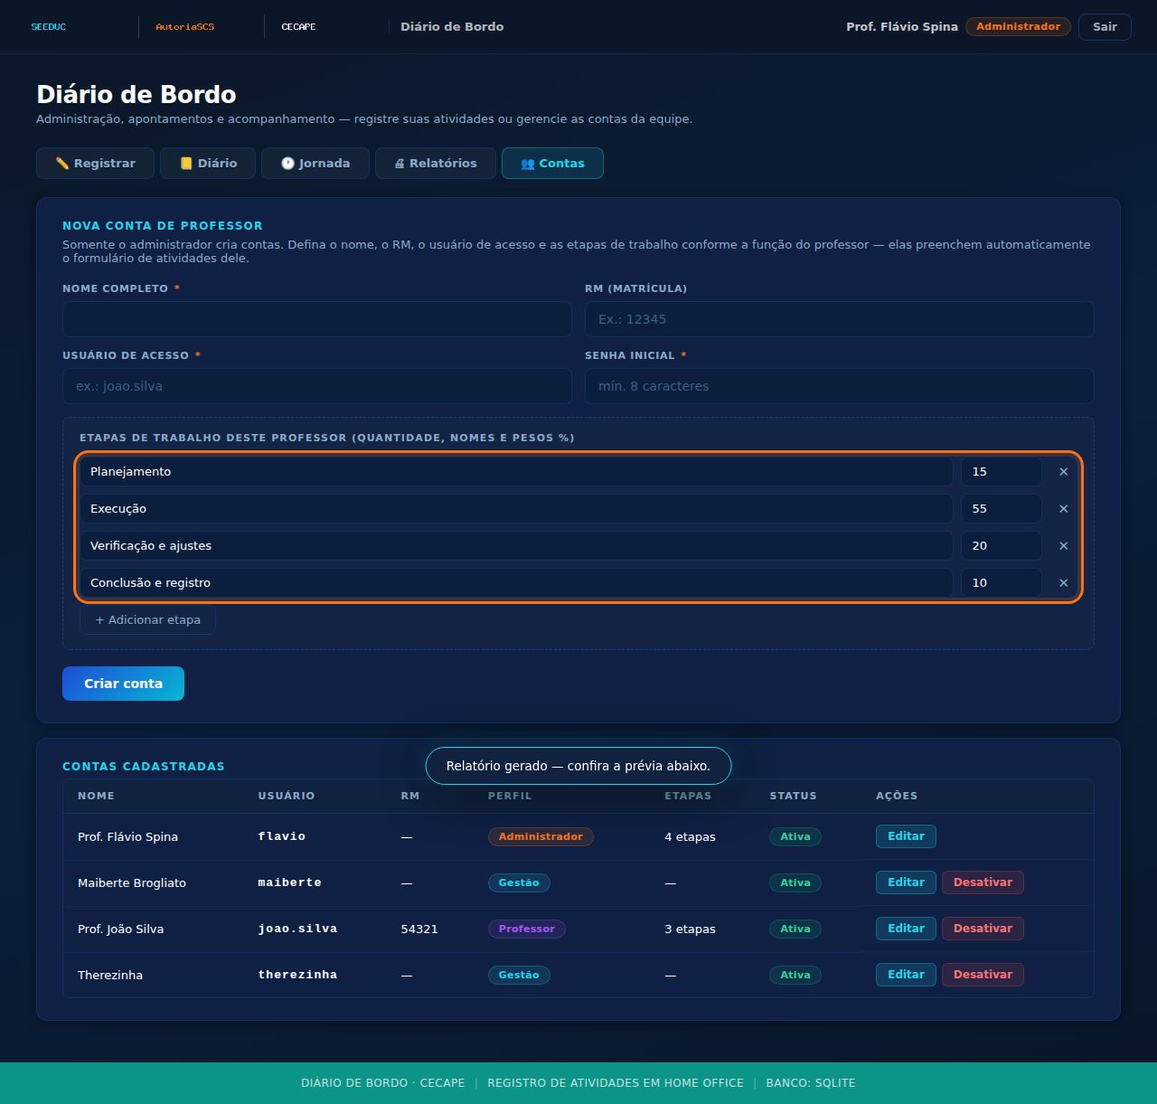
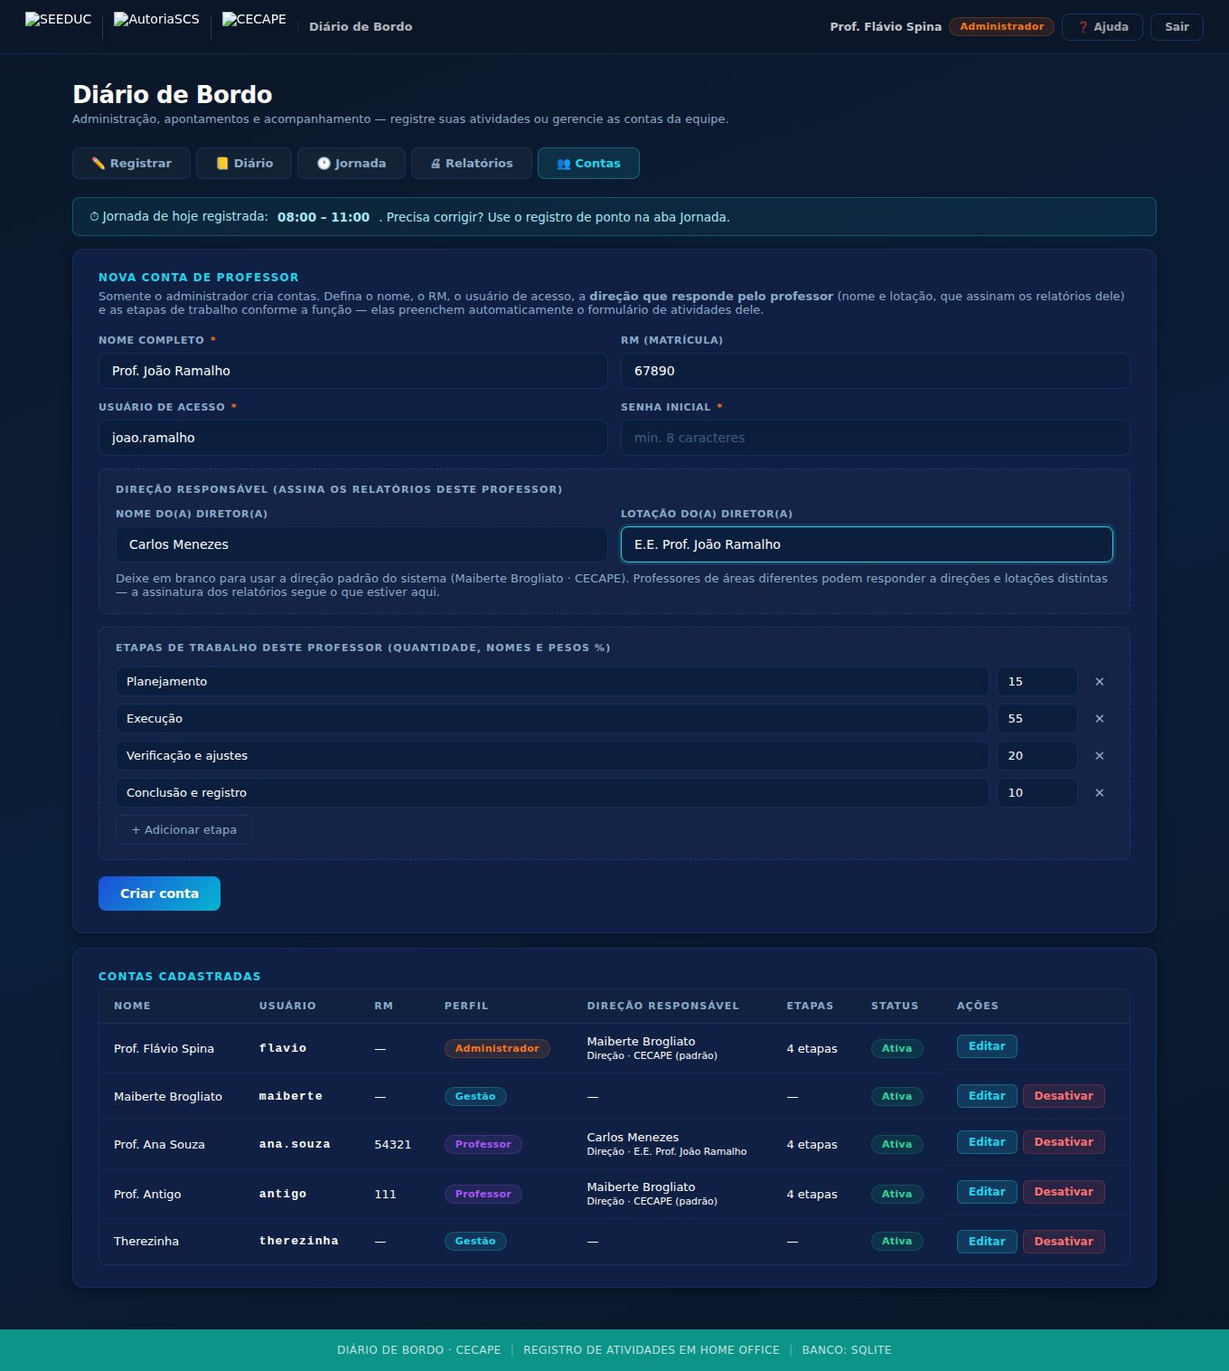
Cadastra a direção responsável (nome e lotação) por conta de professor
Com professores de áreas diferentes, cada um responde a um diretor e a uma
lotação próprios — e são eles que devem assinar os relatórios daquela pessoa.

- users ganha director_name e director_unit; migração aditiva (ALTER TABLE
  guardado por information_schema no MySQL e por PRAGMA no SQLite) e colunas
  incluídas na importação SQLite → MySQL. Contas existentes continuam
  intactas: campos vazios significam "usa a direção padrão do sistema".
- Cadastro de contas: bloco "Direção responsável" com nome e lotação, com os
  valores padrão como placeholder; a lista de contas mostra a direção de cada
  uma, marcando "(padrão)" quando não foi cadastrada.
- Assinatura dos três relatórios (simplificado, detalhado e folha de ponto)
  passa a usar a direção do professor do relatório — na tela, na impressão e
  no PDF —, com User::director() e directorOf() garantindo o padrão.
- config: DIRECTOR_UNIT separado, com DIRECTOR_ROLE derivado dele.
- Tutorial e README atualizados, com captura nova do cadastro de contas.

Claude-Session: https://claude.ai/code/session_01KgUshgZNrfeQzYP2ixKG5C

diff --git a/assets/app.js b/assets/app.js
@@ -1172,6 +1172,9 @@ function resetUserForm() {
   $('#u-id').value = '';
   $('#u-name').value = '';
   $('#u-rm').value = '';
+  $('#u-director-name').value = '';
+  $('#u-director-unit').value = '';
+  $('#u-director-wrap').style.display = '';
   $('#u-username').value = '';
   $('#u-username').disabled = false;
   $('#u-password').value = '';
@@ -1194,6 +1197,8 @@ function fillUserForm(u) {
   $('#u-id').value = u.id;
   $('#u-name').value = u.name;
   $('#u-rm').value = u.rm || '';
+  $('#u-director-name').value = u.director_name || '';
+  $('#u-director-unit').value = u.director_unit || '';
   $('#u-username').value = u.username;
   $('#u-username').disabled = true;
   $('#u-password').value = '';
@@ -1204,6 +1209,8 @@ function fillUserForm(u) {
   $('#u-cancel').style.display = '';
   const hasPhases = u.role !== 'gestor';
   $('#u-phases-wrap').style.display = hasPhases ? '' : 'none';
+  // A direção responsável só faz sentido para quem gera relatório próprio
+  $('#u-director-wrap').style.display = hasPhases ? '' : 'none';
   if (hasPhases) {
     $('#u-phase-rows').innerHTML = '';
     (u.phases || defaultPhasesJs()).forEach(p => userPhaseRow(p.name, p.weight));
@@ -1223,6 +1230,7 @@ async function loadUsers() {
       <td class="cell-code">${esc(u.username)}</td>
       <td>${esc(u.rm || '—')}</td>
       <td><span class="badge ${roleBadge[u.role]}">${roleLabel[u.role]}</span></td>
+      <td>${u.role === 'gestor' ? '—' : `${esc(u.director)}<br><small>${esc(u.director_role)}${u.director_name ? '' : ' (padrão)'}</small>`}</td>
       <td>${u.phases ? u.phases.length + ' etapa' + (u.phases.length !== 1 ? 's' : '') : '—'}</td>
       <td>${u.active ? '<span class="badge badge-green">Ativa</span>' : '<span class="badge badge-red">Desativada</span>'}</td>
       <td class="action-cell">
@@ -1254,6 +1262,8 @@ async function submitUser(ev) {
   const body = {
     name: $('#u-name').value.trim(),
     rm: $('#u-rm').value.trim(),
+    director_name: $('#u-director-name').value.trim(),
+    director_unit: $('#u-director-unit').value.trim(),
     phases: editorPhases('#u-phase-rows')
   };
   const password = $('#u-password').value;
@@ -1393,13 +1403,22 @@ function simplifiedRows(data) {
   });
 }
 
+/** Direção que assina o relatório do professor (padrão se não cadastrada). */
+function directorOf(prof) {
+  return {
+    name: (prof && prof.director) || STATE.director,
+    role: (prof && prof.director_role) || STATE.directorRole
+  };
+}
+
 function signBlockHtml(prof) {
+  const dir = directorOf(prof);
   return `
   <div class="sign-row">
     <div class="sign">
       <span class="sign-line"></span>
-      <b>${esc(STATE.director)}</b>
-      <small>${esc(STATE.directorRole)}</small>
+      <b>${esc(dir.name)}</b>
+      <small>${esc(dir.role)}</small>
     </div>
     <div class="sign">
       <span class="sign-line"></span>
@@ -1713,12 +1732,13 @@ function pdfSignatures(doc, pageWidth, y) {
   doc.line(x2, y, x2 + w, y);
   doc.setFontSize(9);
   doc.setTextColor(20);
-  doc.text(STATE.director, half / 2, y + 5, { align: 'center' });
   const prof = STATE.reportData.professor;
+  const dir = directorOf(prof);
+  doc.text(dir.name, half / 2, y + 5, { align: 'center' });
   doc.text(prof.name, half + half / 2, y + 5, { align: 'center' });
   doc.setFontSize(7.5);
   doc.setTextColor(110);
-  doc.text(STATE.directorRole, half / 2, y + 9.5, { align: 'center' });
+  doc.text(dir.role, half / 2, y + 9.5, { align: 'center' });
   doc.text('Professor(a)' + (prof.rm ? ' · RM ' + prof.rm : ''), half + half / 2, y + 9.5, { align: 'center' });
 }
 

diff --git a/assets/style.css b/assets/style.css
@@ -235,6 +235,15 @@ a { text-decoration: none; color: inherit; }
   color: var(--text-muted);
   margin-bottom: 14px;
 }
+/* Bloco de campos agrupados no formulário (mesma moldura do editor de fases) */
+.sub-block {
+  border: 1px dashed var(--border-light);
+  border-radius: var(--radius-sm);
+  padding: 16px 18px;
+  background: rgba(255,255,255,0.02);
+}
+.sub-block .hint { margin: 10px 0 0; }
+
 .phase-editor .row { display: flex; gap: 8px; margin-bottom: 8px; align-items: center; }
 .phase-editor .ph-name { flex: 1; }
 .phase-editor .ph-weight { width: 90px; flex-shrink: 0; }

diff --git a/app/Core/Database.php b/app/Core/Database.php
@@ -72,6 +72,8 @@ final class Database
             `phases_json` TEXT NULL,
             `password_hash` VARCHAR(255) NOT NULL,
             `active` TINYINT NOT NULL DEFAULT 1,
+            `director_name` VARCHAR(200) NOT NULL DEFAULT \'\',
+            `director_unit` VARCHAR(200) NOT NULL DEFAULT \'\',
             `created_at` VARCHAR(19) NOT NULL' . $suffix);
         $pdo->exec('CREATE TABLE IF NOT EXISTS `activities` (
             `id` INT UNSIGNED NOT NULL AUTO_INCREMENT PRIMARY KEY,
@@ -156,6 +158,16 @@ final class Database
             `created_at` VARCHAR(19) NOT NULL,
             KEY `idx_medical_user` (`user_id`, `date`, `end_date`)' . $suffix);
 
+        // Instalação anterior: ganha as colunas da direção responsável
+        $userCols = $pdo->query("SELECT COLUMN_NAME FROM information_schema.COLUMNS
+                                 WHERE TABLE_SCHEMA = DATABASE() AND TABLE_NAME = 'users'")
+                        ->fetchAll(\PDO::FETCH_COLUMN);
+        foreach (['director_name', 'director_unit'] as $col) {
+            if (!in_array($col, $userCols, true)) {
+                $pdo->exec("ALTER TABLE `users` ADD COLUMN `$col` VARCHAR(200) NOT NULL DEFAULT ''");
+            }
+        }
+
         // Alarga a coluna type de instalações anteriores (para "saida_medica")
         $len = $pdo->query("SELECT CHARACTER_MAXIMUM_LENGTH FROM information_schema.COLUMNS
                             WHERE TABLE_SCHEMA = DATABASE() AND TABLE_NAME = 'breaks' AND COLUMN_NAME = 'type'")
@@ -207,7 +219,8 @@ final class Database
         self::migrateSqliteSchema($lite);
 
         $tables = [
-            'users' => ['id', 'username', 'name', 'rm', 'role', 'phases_json', 'password_hash', 'active', 'created_at'],
+            'users' => ['id', 'username', 'name', 'rm', 'role', 'phases_json', 'password_hash', 'active',
+                        'director_name', 'director_unit', 'created_at'],
             'activities' => ['id', 'user_id', 'title', 'description', 'category', 'date', 'prev_start', 'prev_end', 'created_at'],
             'phases' => ['id', 'activity_id', 'name', 'ord', 'prev_start', 'prev_end', 'real_start', 'real_end'],
             'phase_pauses' => ['id', 'phase_id', 'start_dt', 'end_dt'],
@@ -319,6 +332,8 @@ final class Database
             phases_json TEXT,
             password_hash TEXT NOT NULL,
             active INTEGER NOT NULL DEFAULT 1,
+            director_name TEXT NOT NULL DEFAULT "",
+            director_unit TEXT NOT NULL DEFAULT "",
             created_at TEXT NOT NULL
         )');
         $pdo->exec('CREATE TABLE IF NOT EXISTS activities (
@@ -411,6 +426,14 @@ final class Database
         $cols = array_column($pdo->query('PRAGMA table_info(activities)')->fetchAll(), 'name');
         if (!in_array('user_id', $cols, true)) {
             $pdo->exec('ALTER TABLE activities ADD COLUMN user_id INTEGER');
+        }
+
+        // Instalação anterior: ganha as colunas da direção responsável
+        $userCols = array_column($pdo->query('PRAGMA table_info(users)')->fetchAll(), 'name');
+        foreach (['director_name', 'director_unit'] as $col) {
+            if (!in_array($col, $userCols, true)) {
+                $pdo->exec("ALTER TABLE users ADD COLUMN $col TEXT NOT NULL DEFAULT \"\"");
+            }
         }
 
         $pdo->exec('CREATE INDEX IF NOT EXISTS idx_activities_user_date ON activities(user_id, date)');

diff --git a/app/Models/User.php b/app/Models/User.php
@@ -42,11 +42,12 @@ final class User
     }
 
     public static function create(string $username, string $name, string $rm, string $role,
-                                  ?array $phases, string $passwordHash): int
+                                  ?array $phases, string $passwordHash, array $director = []): int
     {
         $stmt = Database::pdo()->prepare(
-            'INSERT INTO users (username, name, rm, role, phases_json, password_hash, created_at)
-             VALUES (:u, :n, :rm, :r, :p, :h, :c)'
+            'INSERT INTO users (username, name, rm, role, phases_json, password_hash,
+                                director_name, director_unit, created_at)
+             VALUES (:u, :n, :rm, :r, :p, :h, :dn, :du, :c)'
         );
         $stmt->execute([
             ':u' => $username,
@@ -55,6 +56,8 @@ final class User
             ':r' => $role,
             ':p' => $phases === null ? null : json_encode($phases, JSON_UNESCAPED_UNICODE),
             ':h' => $passwordHash,
+            ':dn' => (string)($director['name'] ?? ''),
+            ':du' => (string)($director['unit'] ?? ''),
             ':c' => date('Y-m-d H:i:s'),
         ]);
         return (int)Database::pdo()->lastInsertId();
@@ -63,7 +66,7 @@ final class User
     /** Atualiza apenas os campos permitidos que forem informados. */
     public static function update(int $id, array $fields): void
     {
-        $allowed = ['name', 'rm', 'phases_json', 'password_hash', 'active'];
+        $allowed = ['name', 'rm', 'phases_json', 'password_hash', 'active', 'director_name', 'director_unit'];
         $set = [];
         $params = [':id' => $id];
         foreach ($allowed as $f) {
@@ -86,9 +89,25 @@ final class User
         return (is_array($decoded) && $decoded) ? $decoded : DEFAULT_PHASES;
     }
 
+    /**
+     * Direção que responde pelo professor (assina os relatórios). Sem
+     * cadastro próprio, vale a direção padrão do sistema — professores de
+     * áreas diferentes podem responder a direções e lotações distintas.
+     */
+    public static function director(array $u): array
+    {
+        $name = trim((string)($u['director_name'] ?? ''));
+        $unit = trim((string)($u['director_unit'] ?? ''));
+        return [
+            'name' => $name !== '' ? $name : DIRECTOR_NAME,
+            'unit' => $unit !== '' ? $unit : DIRECTOR_UNIT,
+        ];
+    }
+
     /** Representação segura para o front-end (sem hash de senha). */
     public static function publicView(array $u): array
     {
+        $director = self::director($u);
         return [
             'id' => (int)$u['id'],
             'username' => $u['username'],
@@ -97,6 +116,11 @@ final class User
             'role' => $u['role'],
             'active' => (int)$u['active'],
             'phases' => $u['role'] === 'gestor' ? null : self::phases($u),
+            // Vazios significam "usa a direção padrão" (útil no formulário)
+            'director_name' => (string)($u['director_name'] ?? ''),
+            'director_unit' => (string)($u['director_unit'] ?? ''),
+            'director' => $director['name'],
+            'director_role' => 'Direção · ' . $director['unit'],
         ];
     }
 }

diff --git a/app/Views/panel/index.php b/app/Views/panel/index.php
@@ -322,7 +322,7 @@ $admin = $role === 'admin';
       <section id="tab-contas" class="tab-panel" hidden>
         <div class="panel-card">
           <div class="panel-title" id="u-form-title">Nova conta de professor</div>
-          <p class="hint">Somente o administrador cria contas. Defina o nome, o RM, o usuário de acesso e as etapas de trabalho conforme a função do professor — elas preenchem automaticamente o formulário de atividades dele.</p>
+          <p class="hint">Somente o administrador cria contas. Defina o nome, o RM, o usuário de acesso, a <b>direção que responde pelo professor</b> (nome e lotação, que assinam os relatórios dele) e as etapas de trabalho conforme a função — elas preenchem automaticamente o formulário de atividades dele.</p>
           <form id="user-form">
             <input type="hidden" id="u-id" value="">
             <div class="form-grid">
@@ -341,6 +341,22 @@ $admin = $role === 'admin';
               <div class="form-group col-6">
                 <label class="form-label" for="u-password">Senha inicial <span class="req">*</span></label>
                 <input type="text" id="u-password" class="form-control" minlength="8" placeholder="mín. 8 caracteres">
+              </div>
+              <div class="col-12" id="u-director-wrap">
+                <div class="sub-block">
+                  <h3 class="phase-editor-label">Direção responsável (assina os relatórios deste professor)</h3>
+                  <div class="form-grid">
+                    <div class="form-group col-6">
+                      <label class="form-label" for="u-director-name">Nome do(a) diretor(a)</label>
+                      <input type="text" id="u-director-name" class="form-control" maxlength="200" placeholder="<?= e(DIRECTOR_NAME) ?> (padrão)">
+                    </div>
+                    <div class="form-group col-6">
+                      <label class="form-label" for="u-director-unit">Lotação do(a) diretor(a)</label>
+                      <input type="text" id="u-director-unit" class="form-control" maxlength="200" placeholder="<?= e(DIRECTOR_UNIT) ?> (padrão)">
+                    </div>
+                  </div>
+                  <p class="hint">Deixe em branco para usar a direção padrão do sistema (<?= e(DIRECTOR_NAME) ?> · <?= e(DIRECTOR_UNIT) ?>). Professores de áreas diferentes podem responder a direções e lotações distintas — a assinatura dos relatórios segue o que estiver aqui.</p>
+                </div>
               </div>
               <div class="col-12" id="u-phases-wrap">
                 <div class="phase-editor">
@@ -362,7 +378,7 @@ $admin = $role === 'admin';
           <div class="table-wrap">
             <table class="data-table" id="users-table">
               <thead>
-                <tr><th>Nome</th><th>Usuário</th><th>RM</th><th>Perfil</th><th>Etapas</th><th>Status</th><th>Ações</th></tr>
+                <tr><th>Nome</th><th>Usuário</th><th>RM</th><th>Perfil</th><th>Direção responsável</th><th>Etapas</th><th>Status</th><th>Ações</th></tr>
               </thead>
               <tbody></tbody>
             </table>

diff --git a/app/Views/panel/tutorial.php b/app/Views/panel/tutorial.php
@@ -238,14 +238,16 @@ $T = 'assets/tutorial';
         <p>A aba <b>👥 Contas</b> é exclusiva do administrador. É aqui que você cria os acessos dos professores:</p>
         <ol class="tut-steps">
           <li>Preencha <b>nome completo</b>, <b>RM (matrícula)</b>, o <b>usuário de acesso</b> e a <b>senha inicial</b> (mínimo 8 caracteres) — combine com a pessoa que ela troque no primeiro login.</li>
+          <li>Informe a <b>direção responsável</b>: o <b>nome do(a) diretor(a)</b> que responde por esse professor e a <b>lotação</b> dele(a). Como há professores de áreas diferentes, é essa dupla que assina os relatórios daquela pessoa. <b>Deixe em branco</b> para usar a direção padrão do sistema (<?= e(DIRECTOR_NAME) ?> · <?= e(DIRECTOR_UNIT) ?>).</li>
           <li>Defina as <b>etapas de trabalho</b> da função (quantidade, nomes e pesos %). Elas passam a preencher automaticamente o formulário de atividades daquele professor.</li>
           <li>Clique em <b>Criar conta</b>.</li>
         </ol>
         <figure class="tut-img">
           <img src="<?= $T ?>/tela-contas.jpg" alt="Gestão de contas">
-          <figcaption>Formulário de nova conta com o editor de etapas (destacado) e, abaixo, a lista de contas com Editar e Desativar/Reativar.</figcaption>
+          <figcaption>Formulário de nova conta com a direção responsável e o editor de etapas; abaixo, a lista de contas mostra a direção de cada uma (com "(padrão)" quando não foi cadastrada).</figcaption>
         </figure>
-        <div class="tut-tip">💡 <b>Editar</b> permite ajustar nome, RM, etapas e redefinir a senha de qualquer conta (deixe a senha vazia para manter). <b>Desativar</b> bloqueia o login sem apagar o histórico — e você não consegue desativar a própria conta.</div>
+        <p>A direção cadastrada aparece no <b>campo de assinatura</b> dos três relatórios daquele professor — simplificado, detalhado e folha de ponto —, na tela, na impressão e no PDF. Para trocar depois, use <b>Editar</b> na conta: os relatórios seguintes já saem com a nova direção.</p>
+        <div class="tut-tip">💡 <b>Editar</b> permite ajustar nome, RM, direção responsável, etapas e redefinir a senha de qualquer conta (deixe a senha vazia para manter). <b>Desativar</b> bloqueia o login sem apagar o histórico — e você não consegue desativar a própria conta.</div>
       </section>
       <?php endif; ?>
 

diff --git a/app/Controllers/ApiController.php b/app/Controllers/ApiController.php
@@ -823,8 +823,14 @@ final class ApiController extends Controller
             $this->json(['error' => 'Este nome de usuário já está em uso.'], 422);
         }
         $phases = $this->sanitizePhases($data['phases'] ?? null) ?: DEFAULT_PHASES;
+        // Direção que responde pelo professor (vazio = direção padrão)
+        $director = [
+            'name' => mb_substr(trim((string)($data['director_name'] ?? '')), 0, 200),
+            'unit' => mb_substr(trim((string)($data['director_unit'] ?? '')), 0, 200),
+        ];
 
-        $id = User::create($username, $name, $rm, 'professor', $phases, password_hash($password, PASSWORD_DEFAULT));
+        $id = User::create($username, $name, $rm, 'professor', $phases,
+                           password_hash($password, PASSWORD_DEFAULT), $director);
         $this->json(['ok' => true, 'id' => $id]);
     }
 
@@ -849,6 +855,11 @@ final class ApiController extends Controller
         }
         if (array_key_exists('rm', $data)) {
             $fields['rm'] = mb_substr(trim((string)$data['rm']), 0, 30);
+        }
+        foreach (['director_name' => 'director_name', 'director_unit' => 'director_unit'] as $in => $col) {
+            if (array_key_exists($in, $data)) {
+                $fields[$col] = mb_substr(trim((string)$data[$in]), 0, 200);
+            }
         }
         if (array_key_exists('phases', $data) && $user['role'] !== 'gestor') {
             $phases = $this->sanitizePhases($data['phases']);

diff --git a/app/Config/config.php b/app/Config/config.php
@@ -37,9 +37,15 @@ const LOGOS = [
     ['file' => 'logo-cecape-new.png', 'alt' => 'CECAPE'],
 ];
 
-// Direção que assina os relatórios
+/*
+ * Direção padrão que assina os relatórios. Cada conta de professor pode ter
+ * a sua própria direção e lotação (cadastro de contas) — professores de
+ * áreas diferentes respondem a diretores diferentes; sem cadastro próprio,
+ * vale a direção abaixo.
+ */
 const DIRECTOR_NAME = 'Maiberte Brogliato';
-const DIRECTOR_ROLE = 'Direção · CECAPE';
+const DIRECTOR_UNIT = 'CECAPE';
+const DIRECTOR_ROLE = 'Direção · ' . DIRECTOR_UNIT;
 
 // Perfis de acesso
 const ROLE_LABELS = ['admin' => 'Administrador', 'gestor' => 'Gestão', 'professor' => 'Professor'];

diff --git a/README.md b/README.md
@@ -12,7 +12,7 @@ Diário de bordo multiusuário para registro das atividades executadas em home o
 | **Gestão** | Maiberte Brogliato (`maiberte`) e Therezinha (`therezinha`) | Consulta o diário de qualquer professor e gera os relatórios (simplificado ou detalhado) |
 | **Professor** | Contas criadas pelo administrador | Registra as próprias atividades, etapas e descansos; gera o próprio relatório com campos de assinatura |
 
-Senha inicial de todas as contas semeadas: **cecape2026** — cada pessoa troca a própria senha no painel ("Trocar minha senha"). Somente o administrador cria contas novas (perfil professor), definindo **nome, RM (registro de matrícula), usuário e as etapas de trabalho** conforme a função — ex.: "Planejamento / Execução / Verificação e ajustes / Conclusão e registro" — em qualquer quantidade, nome e peso.
+Senha inicial de todas as contas semeadas: **cecape2026** — cada pessoa troca a própria senha no painel ("Trocar minha senha"). Somente o administrador cria contas novas (perfil professor), definindo **nome, RM (registro de matrícula), usuário, a direção responsável (nome do diretor e lotação) e as etapas de trabalho** conforme a função — ex.: "Planejamento / Execução / Verificação e ajustes / Conclusão e registro" — em qualquer quantidade, nome e peso.
 
 ## Funcionalidades
 
@@ -46,7 +46,7 @@ Senha inicial de todas as contas semeadas: **cecape2026** — cada pessoa troca 
 - **Detalhado**: todas as atividades e etapas do período, com previsão × real.
 - **Folha de ponto** (fechamento do RH): entrada e saída registradas pelo ponto, intervalos do dia e horas do ponto (entrada → saída, descontados descansos e saídas médicas); saídas automáticas marcadas com ¹; dias de afastamento em linha própria com o status do atestado. Dias trabalhados **sem ponto registrado** (meses anteriores à adoção do ponto) aparecem com os horários deduzidos dos apontamentos, marcados com ² até o ponto ser gerado.
 - Seletor de **Mês** que preenche o período com o mês inteiro (vale para os três tipos), além das datas livres.
-- Todos saem com **campos de assinatura**: Maiberte Brogliato (Direção · CECAPE) e o professor (nome + RM), na prévia em tela, na impressão e no PDF.
+- Todos saem com **campos de assinatura**: a **direção responsável pelo professor** (nome e lotação cadastrados na conta — professores de áreas diferentes assinam com direções diferentes; sem cadastro próprio vale a direção padrão, Maiberte Brogliato · CECAPE) e o professor (nome + RM), na prévia em tela, na impressão e no PDF.
 - A prévia exibida se **atualiza automaticamente** a cada alteração (atestado anexado, ponto corrigido, etapa editada), de modo que impressão e PDF nunca saiam com dados antigos; havendo mais de um registro de saúde no mesmo dia, prevalece o que tem atestado anexado.
 - Impressão em layout claro de documento; PDF gerado no navegador (jsPDF), com fallback para a impressão.
 
@@ -79,7 +79,7 @@ app/
 └── Views/                    Layout, login e painel (abas por perfil)
 ```
 
-Tabelas: `users` (perfil, RM, etapas em JSON, hash de senha), `activities` (por usuário), `phases`, `phase_pauses` (pausas de etapa), `breaks` (intervalos), `work_schedules` (jornada semanal), `hour_bank` (banco de horas), `medical_leaves` (saúde, com atestado), `time_clock` (ponto diário: entrada, saída e marcação de encerramento automático), `login_attempts`. No MySQL, `phases` e `phase_pauses` têm chave estrangeira com `ON DELETE CASCADE`. Migrações automáticas: banco SQLite antigo de usuário único ganha a coluna `user_id` e preserva a senha cadastrada; SQLite → MySQL importa tudo na primeira conexão.
+Tabelas: `users` (perfil, RM, etapas em JSON, direção responsável, hash de senha), `activities` (por usuário), `phases`, `phase_pauses` (pausas de etapa), `breaks` (intervalos), `work_schedules` (jornada semanal), `hour_bank` (banco de horas), `medical_leaves` (saúde, com atestado), `time_clock` (ponto diário: entrada, saída e marcação de encerramento automático), `login_attempts`. No MySQL, `phases` e `phase_pauses` têm chave estrangeira com `ON DELETE CASCADE`. Migrações automáticas: banco SQLite antigo de usuário único ganha a coluna `user_id` e preserva a senha cadastrada; SQLite → MySQL importa tudo na primeira conexão.
 
 ## Segurança
 
